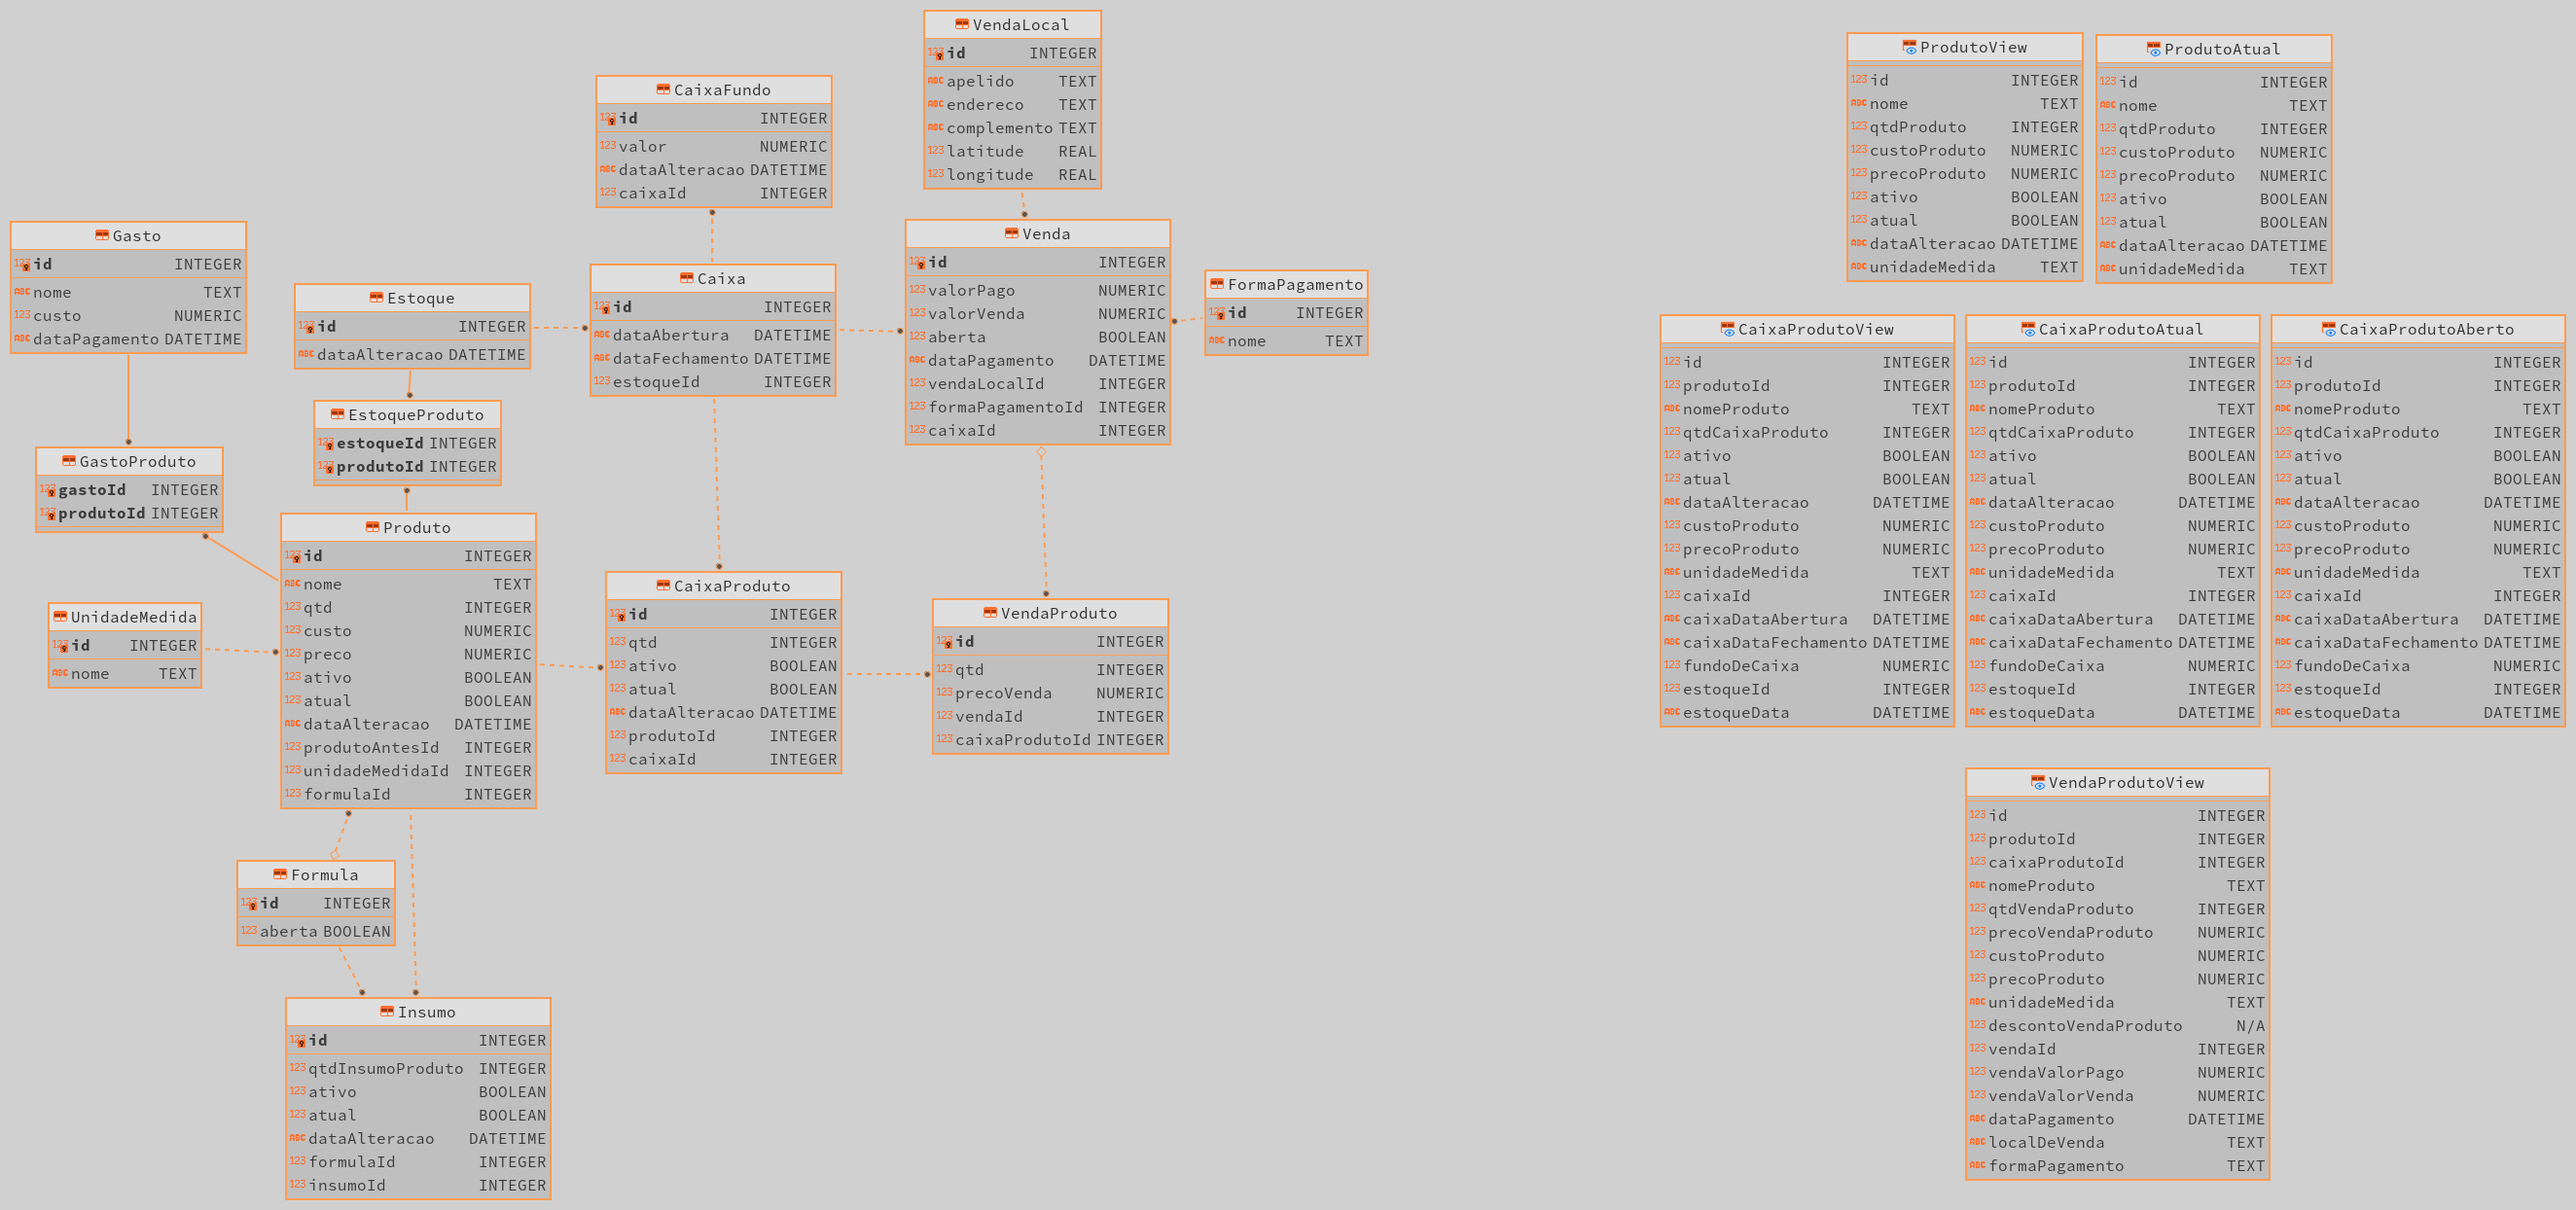
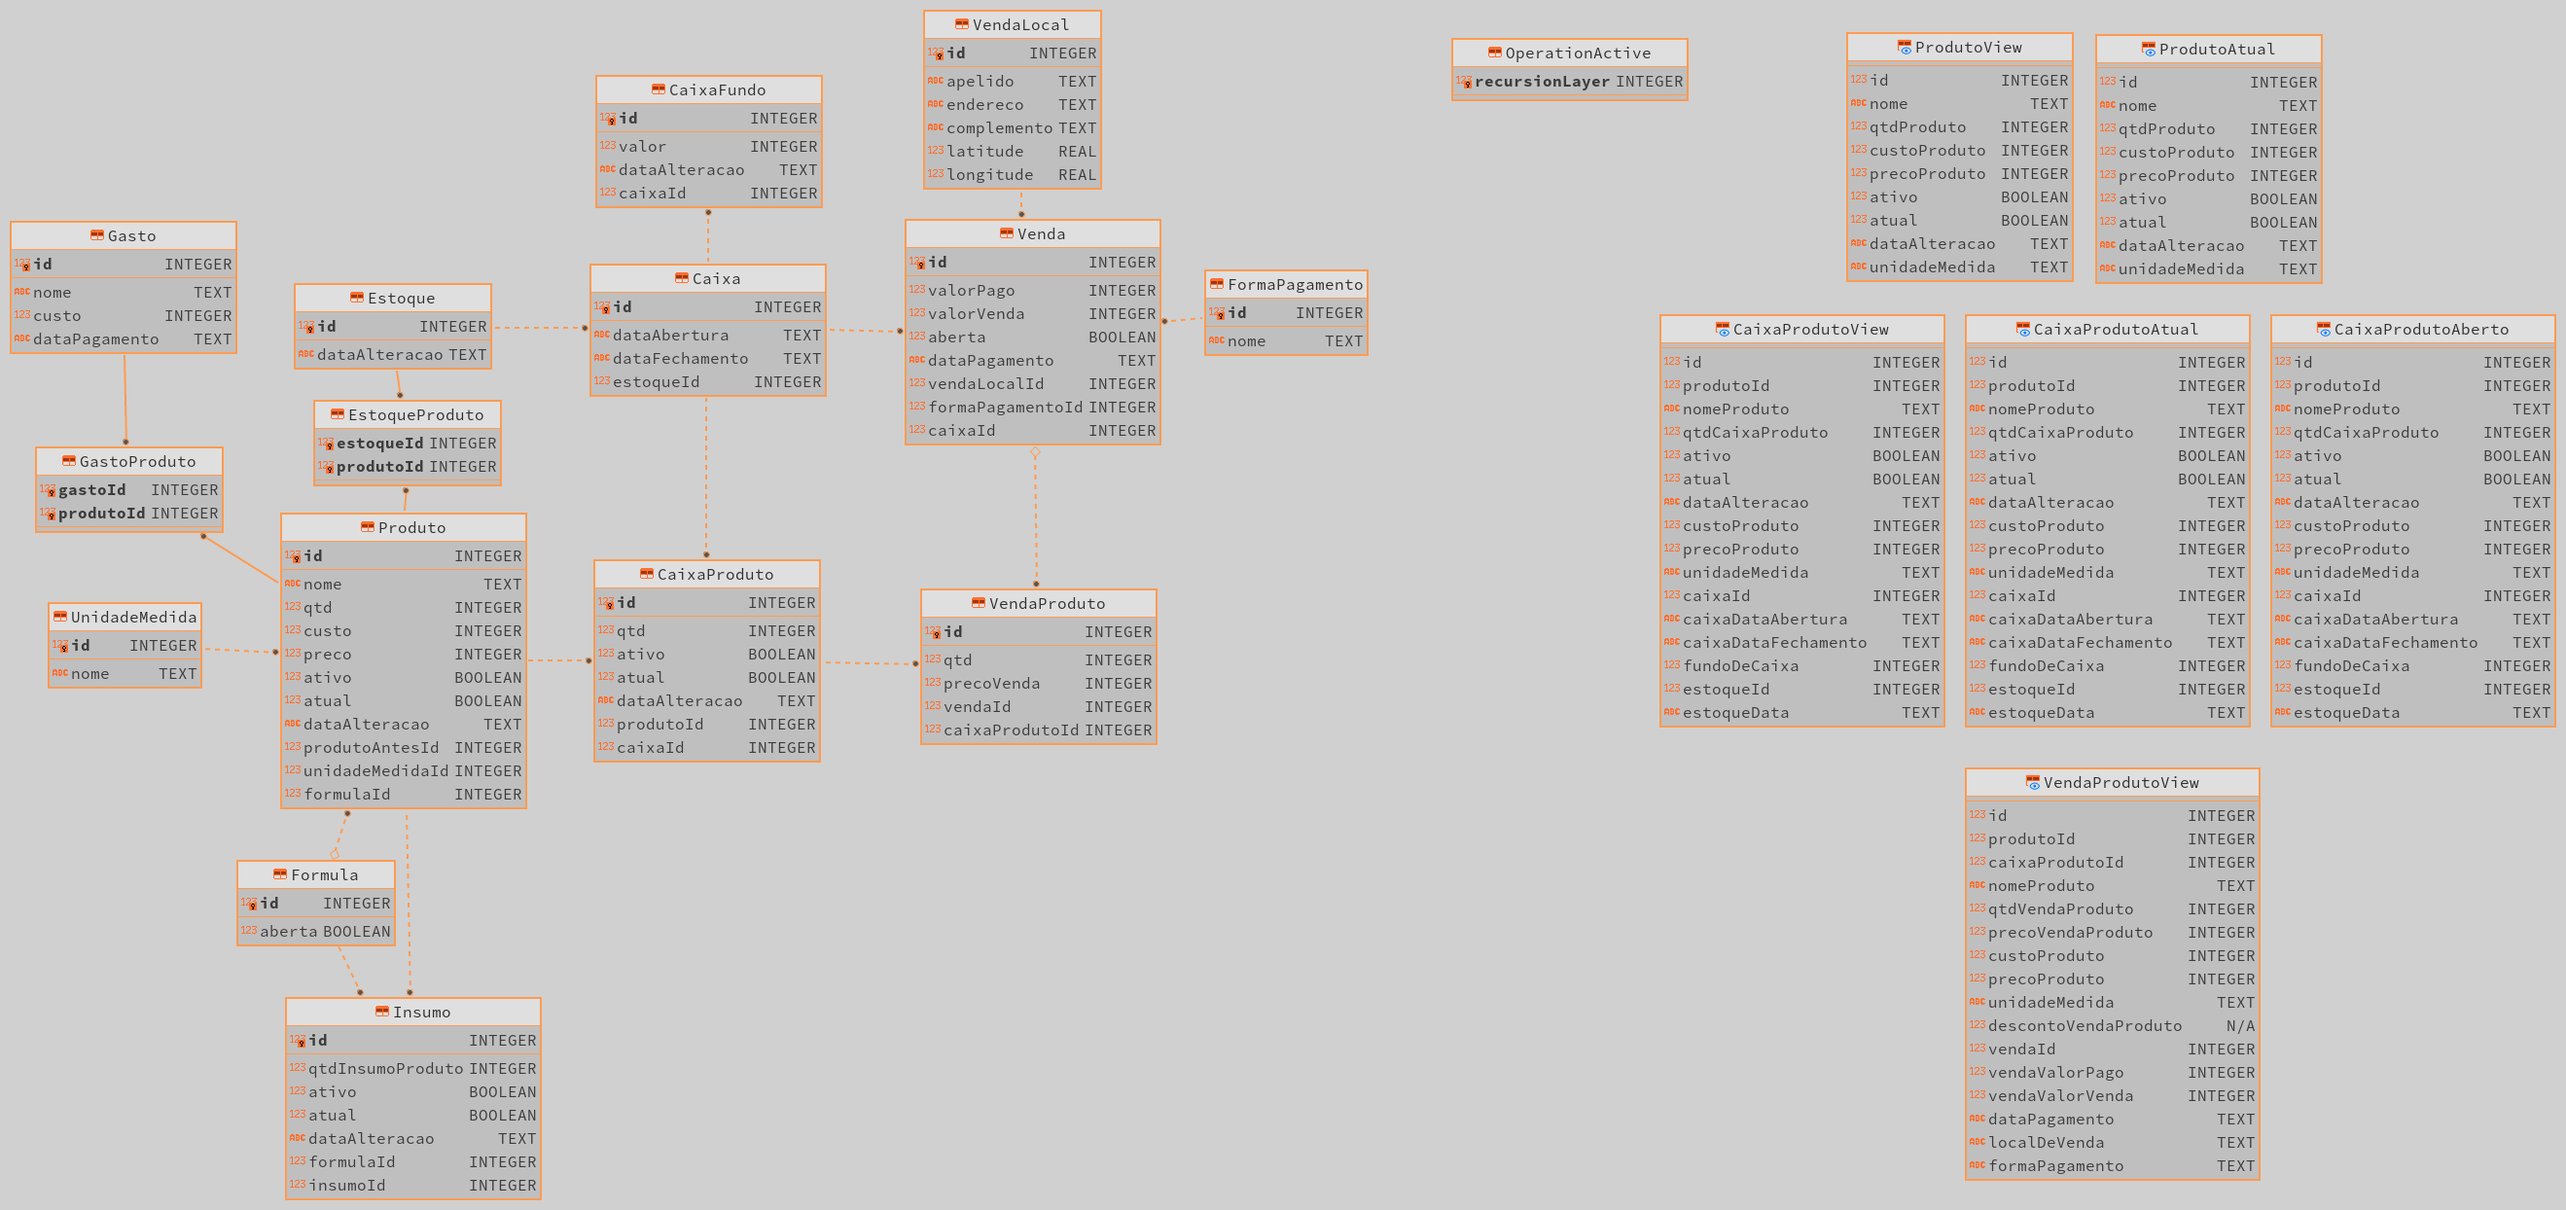
salvar, editar e excluir funcionando novamente

diff --git a/app/src/main/java/com/tcc/zipzop/database/ZipZopCallbacks.java b/app/src/main/java/com/tcc/zipzop/database/ZipZopCallbacks.java
@@ -87,7 +87,7 @@ public class ZipZopCallbacks {
                 "CREATE TRIGGER IF NOT EXISTS UpdateProduto\n" +
                     "\tBEFORE UPDATE\n" +
                     "\tON Produto\n" +
-                    "\tWHEN OLD.atual = 1 AND NOT EXISTS(SELECT 1 FROM OperationActive LIMIT 1)\n" +
+                    "\tWHEN NEW.ativo <> 0 AND OLD.atual = 1 AND NOT EXISTS(SELECT 1 FROM OperationActive LIMIT 1)\n" +
                     "\tBEGIN\n" +
                     "\t\tINSERT INTO OperationActive (recursionLayer)\n" +
                     "\t\t\tVALUES (1);\n" +
@@ -100,6 +100,25 @@ public class ZipZopCallbacks {
                     "\t\n" +
                     "\t\tINSERT INTO Produto (nome, qtd, custo, preco, produtoAntesId, ativo, unidadeMedidaId, formulaId)\n" +
                     "\t\t\tVALUES (NEW.nome, NEW.qtd, NEW.custo, NEW.preco, OLD.id, NEW.ativo, NEW.unidadeMedidaId, OLD.formulaId);\n" +
+                    "\t\t\n" +
+                    "\t\tSELECT RAISE(IGNORE);\n" +
+                    "\tEND;"
+            );
+            database.execSQL(
+                "CREATE TRIGGER IF NOT EXISTS UpdateDeleteProduto\n" +
+                    "\tBEFORE UPDATE\n" +
+                    "\tON Produto\n" +
+                    "\tWHEN NEW.ativo = 0 AND OLD.atual = 1 AND NOT EXISTS(SELECT 1 FROM OperationActive LIMIT 1)\n" +
+                    "\tBEGIN\n" +
+                    "\t\tINSERT INTO OperationActive (recursionLayer)\n" +
+                    "\t\t\tVALUES (1);\n" +
+                    "\n" +
+                    "\t\tUPDATE Produto\n" +
+                    "\t\tSET\tativo = 0,\n" +
+                    "\t\t\tatual = 0\n" +
+                    "\t\tWHERE id = OLD.id;\n" +
+                    "\t\n" +
+                    "\t\tDELETE FROM OperationActive;\n" +
                     "\t\t\n" +
                     "\t\tSELECT RAISE(IGNORE);\n" +
                     "\tEND;"
@@ -164,7 +183,7 @@ public class ZipZopCallbacks {
                 "CREATE TRIGGER IF NOT EXISTS UpdateCaixaProduto\n" +
                     "\tBEFORE UPDATE\n" +
                     "\tON CaixaProduto\n" +
-                    "\tWHEN OLD.atual = 1 AND NOT EXISTS(SELECT 1 FROM OperationActive LIMIT 1)\n" +
+                    "\tWHEN NEW.ativo <> 0 AND OLD.atual = 1 AND NOT EXISTS(SELECT 1 FROM OperationActive LIMIT 1)\n" +
                     "\tBEGIN\n" +
                     "\t\tINSERT INTO OperationActive (recursionLayer)\n" +
                     "\t\t\tVALUES (1);\n" +
@@ -177,6 +196,25 @@ public class ZipZopCallbacks {
                     "\t\t\n" +
                     "\t\tINSERT INTO CaixaProduto (qtd, ativo, produtoId, caixaId)\n" +
                     "\t\t\tVALUES (NEW.qtd, NEW.ativo, OLD.produtoId, OLD.caixaId);\n" +
+                    "\t\t\t\t\n" +
+                    "\t\tSELECT RAISE(IGNORE);\n" +
+                    "\tEND;"
+            );
+            database.execSQL(
+                "CREATE TRIGGER IF NOT EXISTS UpdateDeleteCaixaProduto\n" +
+                    "\tBEFORE UPDATE\n" +
+                    "\tON CaixaProduto\n" +
+                    "\tWHEN NEW.ativo = 0 AND OLD.atual = 1 AND NOT EXISTS(SELECT 1 FROM OperationActive LIMIT 1)\n" +
+                    "\tBEGIN\n" +
+                    "\t\tINSERT INTO OperationActive (recursionLayer)\n" +
+                    "\t\t\tVALUES (1);\n" +
+                    "\t\t\n" +
+                    "\t\tUPDATE CaixaProduto\n" +
+                    "\t\tSET\tativo = 0,\n" +
+                    "\t\t\tatual = 0\n" +
+                    "\t\tWHERE id = OLD.id;\n" +
+                    "\t\n" +
+                    "\t\tDELETE FROM OperationActive;\n" +
                     "\t\t\t\t\n" +
                     "\t\tSELECT RAISE(IGNORE);\n" +
                     "\tEND;"
@@ -357,7 +395,7 @@ public class ZipZopCallbacks {
                 "CREATE TRIGGER IF NOT EXISTS UpdateInsumo\n" +
                     "\tBEFORE UPDATE\n" +
                     "\tON Insumo\n" +
-                    "\tWHEN OLD.atual = 1 AND NOT EXISTS(SELECT 1 FROM OperationActive LIMIT 1)\n" +
+                    "\tWHEN NEW.ativo <> 0 AND OLD.atual = 1 AND NOT EXISTS(SELECT 1 FROM OperationActive LIMIT 1)\n" +
                     "\tBEGIN\n" +
                     "\t\tINSERT INTO OperationActive (recursionLayer)\n" +
                     "\t\t\tVALUES (1);\n" +
@@ -370,6 +408,25 @@ public class ZipZopCallbacks {
                     "\t\t\n" +
                     "\t\tINSERT INTO Insumo (qtdInsumoProduto, ativo, formulaId, insumoId)\n" +
                     "\t\t\tVALUES (NEW.qtdInsumoProduto, NEW.ativo, OLD.formulaId, OLD.insumoId);\n" +
+                    "\t\t\t\t\n" +
+                    "\t\tSELECT RAISE(IGNORE);\n" +
+                    "\tEND;"
+            );
+            database.execSQL(
+                "CREATE TRIGGER IF NOT EXISTS UpdateDeleteInsumo\n" +
+                    "\tBEFORE UPDATE\n" +
+                    "\tON Insumo\n" +
+                    "\tWHEN NEW.ativo = 0 AND OLD.atual = 1 AND NOT EXISTS(SELECT 1 FROM OperationActive LIMIT 1)\n" +
+                    "\tBEGIN\n" +
+                    "\t\tINSERT INTO OperationActive (recursionLayer)\n" +
+                    "\t\t\tVALUES (1);\n" +
+                    "\t\t\n" +
+                    "\t\tUPDATE Insumo\n" +
+                    "\t\tSET\tativo = 0,\n" +
+                    "\t\t\tatual = 0\n" +
+                    "\t\tWHERE id = OLD.id;\n" +
+                    "\t\n" +
+                    "\t\tDELETE FROM OperationActive;\n" +
                     "\t\t\t\t\n" +
                     "\t\tSELECT RAISE(IGNORE);\n" +
                     "\tEND;"

diff --git a/app/src/main/java/com/tcc/zipzop/activity/ProdutoActivity.java b/app/src/main/java/com/tcc/zipzop/activity/ProdutoActivity.java
@@ -68,14 +68,12 @@ public class ProdutoActivity extends AppCompatActivity {
         });
 
     }
-    public void atualizaProdutos() throws ExecutionException, InterruptedException {
-        produtos = new ListarProdutoTask(dao).execute().get();
-    }
+
     @Override
     protected void onResume() {
         super.onResume();
         try {
-            atualizaProdutos();
+            produtos = new ListarProdutoTask(dao).execute().get();
         } catch (ExecutionException e) {
             e.printStackTrace();
         } catch (InterruptedException e) {
@@ -92,8 +90,8 @@ public class ProdutoActivity extends AppCompatActivity {
         int posicao = ((produtoAdapterActivity.getPosicao()));
         switch (menuItem.getItemId()){
             case R.id.excluir:
-                Produto produtos = produtoAdapterActivity.getProduto(posicao);
-                new ExcluirProdutoTask(dao, produtoAdapterActivity, produtos).execute();
+                Produto produto = produtoAdapterActivity.getProduto(posicao);
+                new ExcluirProdutoTask(dao, produtoAdapterActivity, produto).execute();
                 break;
             case R.id.editar:
                 intent = new Intent(this, SalvarProdutoActivity.class);

diff --git a/app/src/main/java/com/tcc/zipzop/database/dao/ProdutoDAO.java b/app/src/main/java/com/tcc/zipzop/database/dao/ProdutoDAO.java
@@ -15,7 +15,7 @@ public interface ProdutoDAO {
     @Insert
     void salvar(Produto produto);
 
-    @Query("SELECT * FROM Produto WHERE ativo = 1")
+    @Query("SELECT * FROM Produto WHERE ativo = 1 AND atual = 1")
     List<Produto> listar();
 
     @Query("SELECT * FROM Produto WHERE id = :id AND ativo = 1 AND atual = 1")
